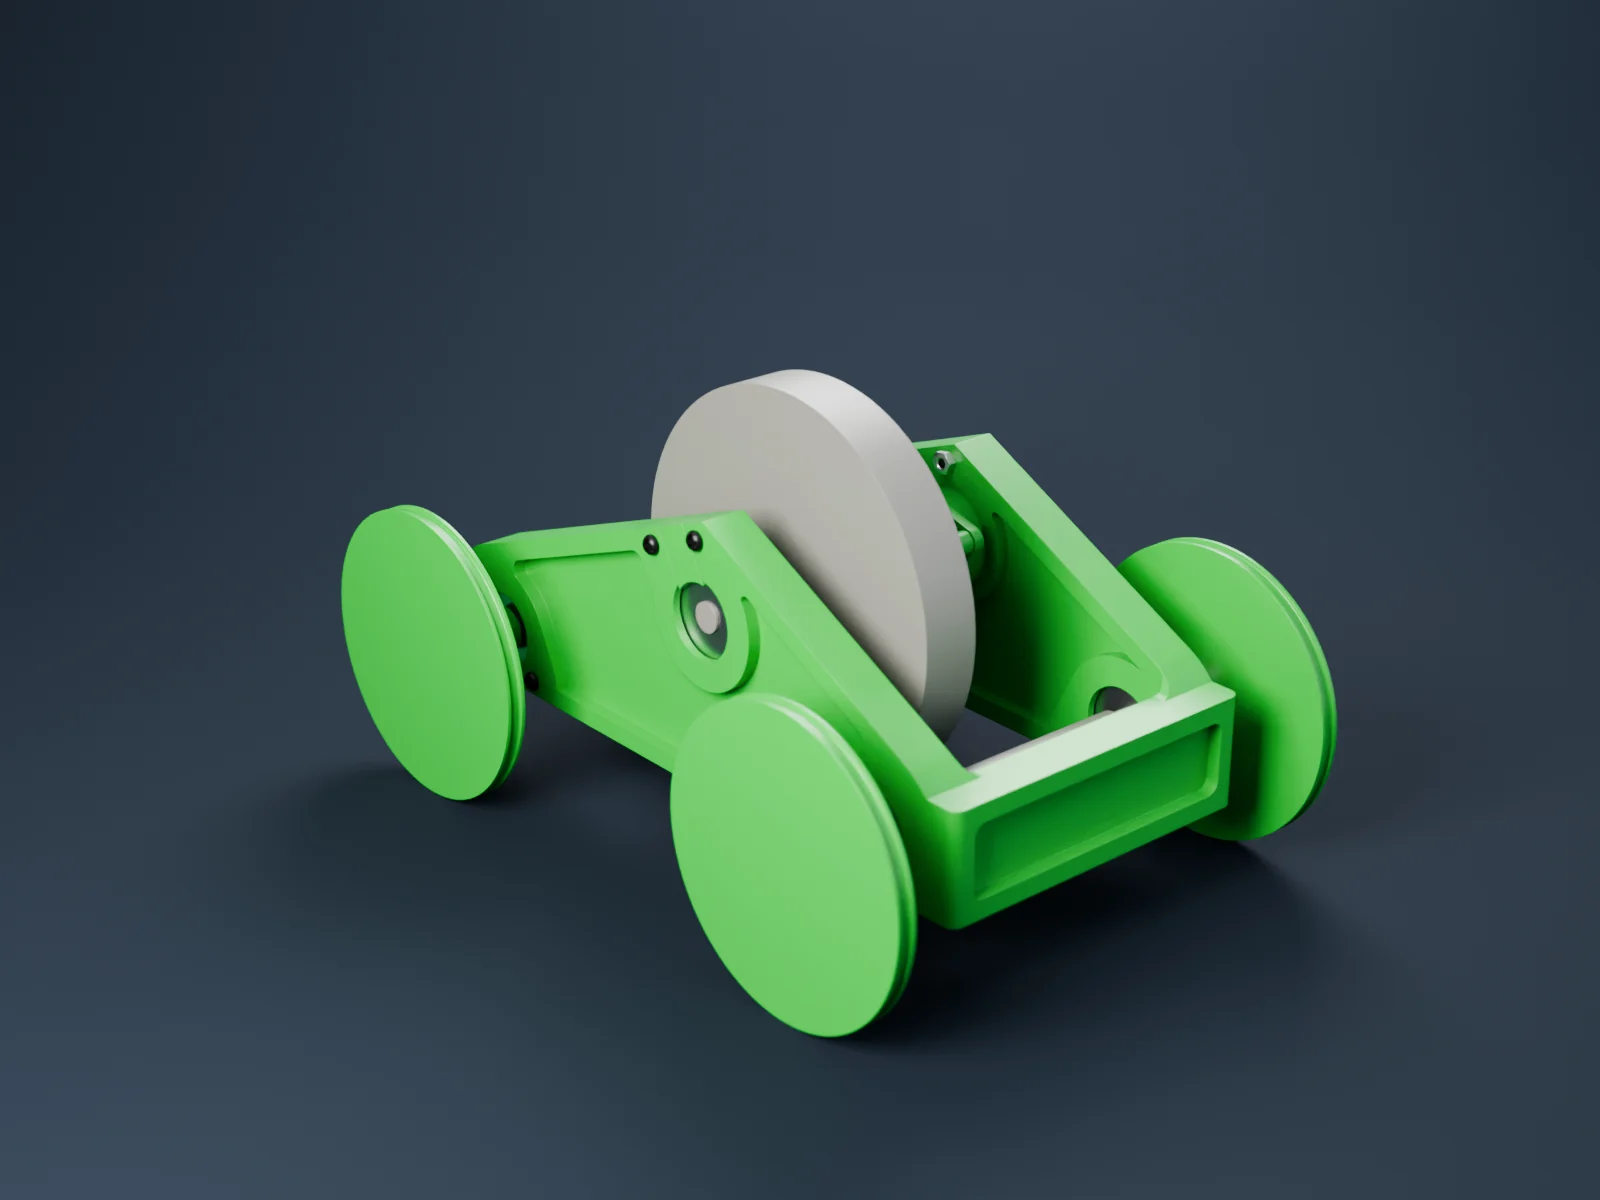
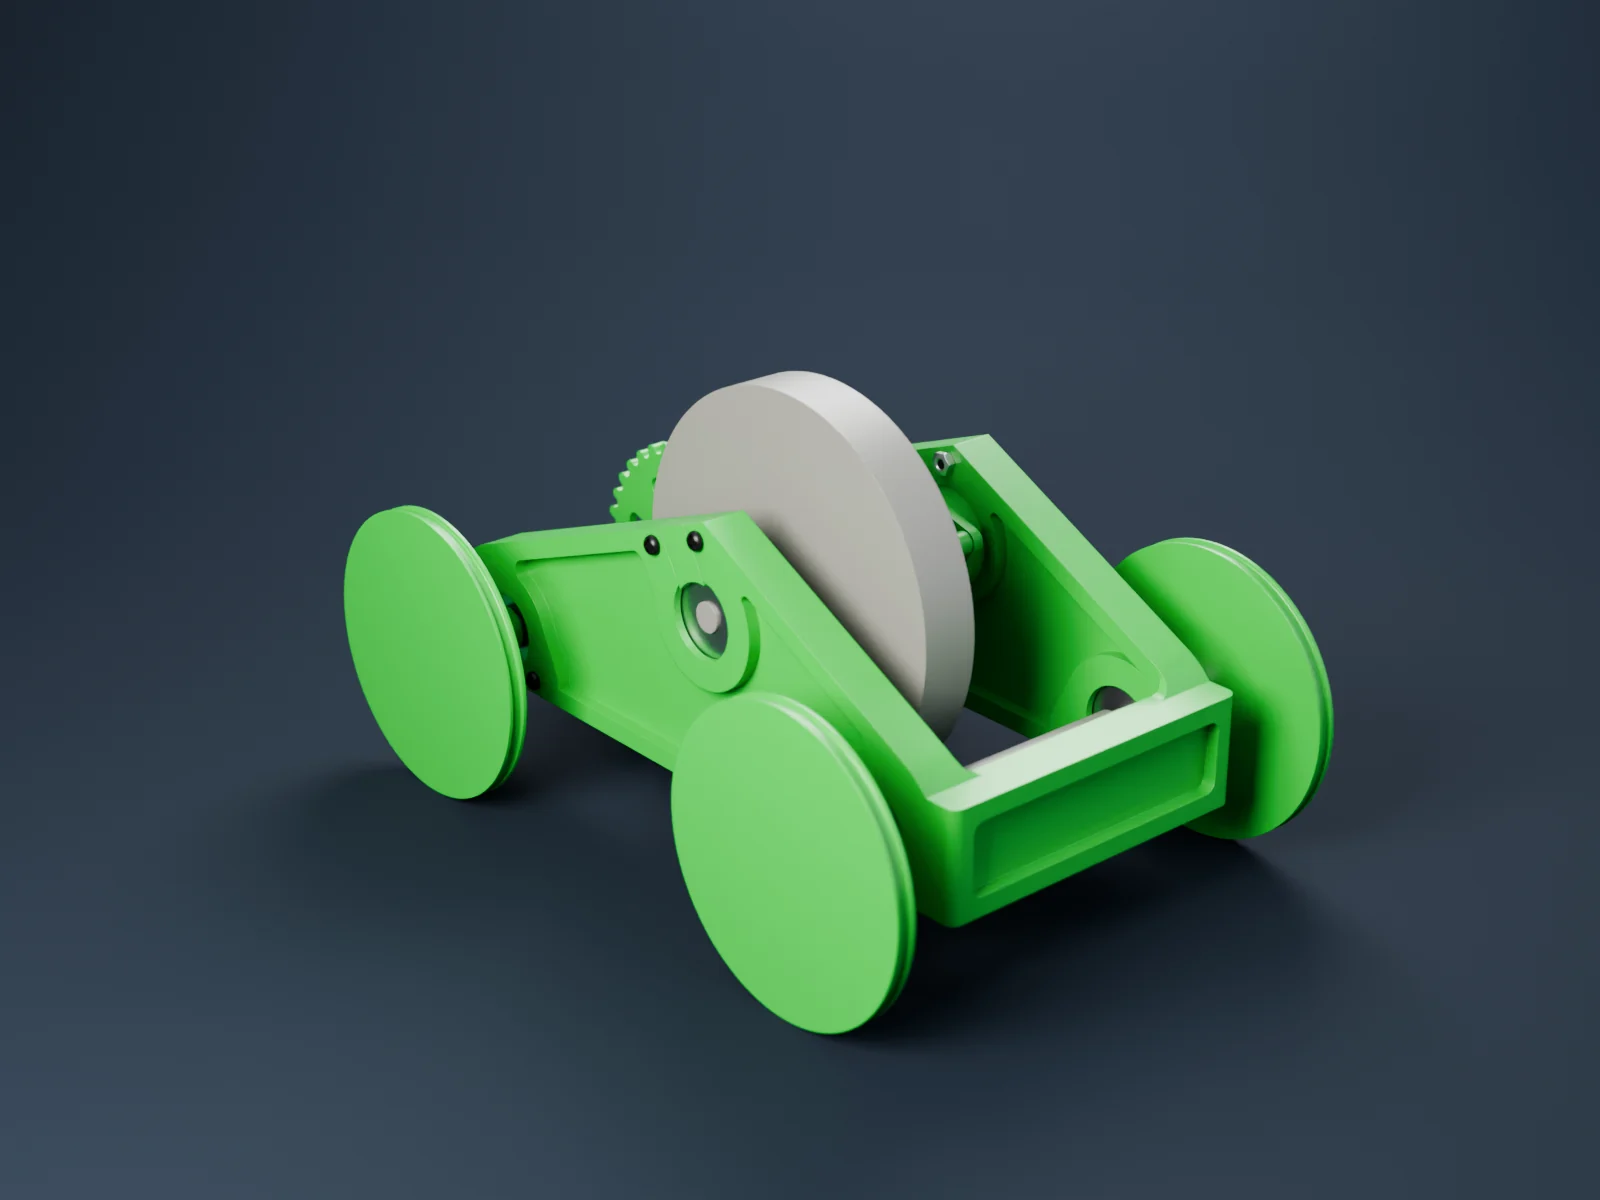
Flycar renders: add 35T front drive gear, fix gear train placement
The front-axle drive gear was missing from the CAD assembly. Modelled a
35T gear matching the Tinkercad tooth form, keyed to the axle collar's
double-D flats. Also corrected the middle compound gear (flipped, and
7 mm off its shaft) and the top gear (1.5 mm off its shaft) so all
three meshes line up on the chassis bearing centres.

Claude-Session: https://claude.ai/code/session_01SRvCKecgt8ZEEYigbHF3T6

diff --git a/Sentinel/index.html b/Sentinel/index.html
@@ -75,7 +75,7 @@
             <figure class="dossier-media">
             <a href="../images/flycar-hero.webp" target="_blank" rel="noopener"><img src="../images/flycar-hero.webp" alt="Render of the flywheel car assembly: green 3D-printed chassis on four wheels with the grey flywheel between the rails" width="1600" height="1200" loading="lazy" decoding="async"></a>
             <div style="display:grid;grid-template-columns:1fr 1fr;gap:0.6rem;margin-top:0.6rem;">
-              <a href="../images/flycar-drivetrain.webp" target="_blank" rel="noopener"><img src="../images/flycar-drivetrain.webp" alt="Drivetrain cutaway with the chassis hidden: axle pinion, compound middle gear and the top gear on the flywheel shaft" width="1600" height="1200" loading="lazy" decoding="async"></a>
+              <a href="../images/flycar-drivetrain.webp" target="_blank" rel="noopener"><img src="../images/flycar-drivetrain.webp" alt="Drivetrain cutaway with the chassis hidden: 35-tooth drive gear on the front axle, compound 15/25-tooth middle gear, and the 15-tooth gear on the flywheel shaft" width="1600" height="1200" loading="lazy" decoding="async"></a>
               <a href="../images/flycar-top.webp" target="_blank" rel="noopener"><img src="../images/flycar-top.webp" alt="Overhead render showing the gear train packaged between the chassis rails beside the flywheel" width="1600" height="1200" loading="lazy" decoding="async"></a>
               <a href="../images/flycar-rear.webp" target="_blank" rel="noopener"><img src="../images/flycar-rear.webp" alt="Rear three-quarter render of the flywheel car" width="1600" height="1200" loading="lazy" decoding="async"></a>
               <a href="../FLywheelCar1.jpeg" target="_blank" rel="noopener"><img src="../FLywheelCar1.jpeg" alt="The printed flywheel car, as built" width="1600" height="2133" style="aspect-ratio:4/3;object-fit:cover;" loading="lazy" decoding="async"></a>

diff --git a/Spectrum/index.html b/Spectrum/index.html
@@ -100,7 +100,7 @@
           <figure class="project-media">
             <a href="../images/flycar-hero.webp" target="_blank" rel="noopener"><img src="../images/flycar-hero.webp" alt="Render of the flywheel car assembly: green 3D-printed chassis on four wheels with the grey flywheel between the rails" width="1600" height="1200" loading="lazy" decoding="async"></a>
             <div style="display:grid;grid-template-columns:1fr 1fr;gap:0.6rem;margin-top:0.6rem;">
-              <a href="../images/flycar-drivetrain.webp" target="_blank" rel="noopener"><img src="../images/flycar-drivetrain.webp" alt="Drivetrain cutaway with the chassis hidden: axle pinion, compound middle gear and the top gear on the flywheel shaft" width="1600" height="1200" loading="lazy" decoding="async"></a>
+              <a href="../images/flycar-drivetrain.webp" target="_blank" rel="noopener"><img src="../images/flycar-drivetrain.webp" alt="Drivetrain cutaway with the chassis hidden: 35-tooth drive gear on the front axle, compound 15/25-tooth middle gear, and the 15-tooth gear on the flywheel shaft" width="1600" height="1200" loading="lazy" decoding="async"></a>
               <a href="../images/flycar-top.webp" target="_blank" rel="noopener"><img src="../images/flycar-top.webp" alt="Overhead render showing the gear train packaged between the chassis rails beside the flywheel" width="1600" height="1200" loading="lazy" decoding="async"></a>
               <a href="../images/flycar-rear.webp" target="_blank" rel="noopener"><img src="../images/flycar-rear.webp" alt="Rear three-quarter render of the flywheel car" width="1600" height="1200" loading="lazy" decoding="async"></a>
               <a href="../FLywheelCar1.jpeg" target="_blank" rel="noopener"><img src="../FLywheelCar1.jpeg" alt="The printed flywheel car, as built" width="1600" height="2133" style="aspect-ratio:4/3;object-fit:cover;" loading="lazy" decoding="async"></a>

diff --git a/Orbital/index.html b/Orbital/index.html
@@ -77,7 +77,7 @@
           <figure class="project-media">
             <a href="../images/flycar-hero.webp" target="_blank" rel="noopener"><img src="../images/flycar-hero.webp" alt="Render of the flywheel car assembly: green 3D-printed chassis on four wheels with the grey flywheel between the rails" width="1600" height="1200" loading="lazy" decoding="async"></a>
             <div style="display:grid;grid-template-columns:1fr 1fr;gap:0.6rem;margin-top:0.6rem;">
-              <a href="../images/flycar-drivetrain.webp" target="_blank" rel="noopener"><img src="../images/flycar-drivetrain.webp" alt="Drivetrain cutaway with the chassis hidden: axle pinion, compound middle gear and the top gear on the flywheel shaft" width="1600" height="1200" loading="lazy" decoding="async"></a>
+              <a href="../images/flycar-drivetrain.webp" target="_blank" rel="noopener"><img src="../images/flycar-drivetrain.webp" alt="Drivetrain cutaway with the chassis hidden: 35-tooth drive gear on the front axle, compound 15/25-tooth middle gear, and the 15-tooth gear on the flywheel shaft" width="1600" height="1200" loading="lazy" decoding="async"></a>
               <a href="../images/flycar-top.webp" target="_blank" rel="noopener"><img src="../images/flycar-top.webp" alt="Overhead render showing the gear train packaged between the chassis rails beside the flywheel" width="1600" height="1200" loading="lazy" decoding="async"></a>
               <a href="../images/flycar-rear.webp" target="_blank" rel="noopener"><img src="../images/flycar-rear.webp" alt="Rear three-quarter render of the flywheel car" width="1600" height="1200" loading="lazy" decoding="async"></a>
               <a href="../FLywheelCar1.jpeg" target="_blank" rel="noopener"><img src="../FLywheelCar1.jpeg" alt="The printed flywheel car, as built" width="1600" height="2133" style="aspect-ratio:4/3;object-fit:cover;" loading="lazy" decoding="async"></a>

diff --git a/notebook/index.html b/notebook/index.html
@@ -75,7 +75,7 @@
             <figure class="entry-media">
             <a href="../images/flycar-hero.webp" target="_blank" rel="noopener"><img src="../images/flycar-hero.webp" alt="Render of the flywheel car assembly: green 3D-printed chassis on four wheels with the grey flywheel between the rails" width="1600" height="1200" loading="lazy" decoding="async"></a>
             <div style="display:grid;grid-template-columns:1fr 1fr;gap:0.6rem;margin-top:0.6rem;">
-              <a href="../images/flycar-drivetrain.webp" target="_blank" rel="noopener"><img src="../images/flycar-drivetrain.webp" alt="Drivetrain cutaway with the chassis hidden: axle pinion, compound middle gear and the top gear on the flywheel shaft" width="1600" height="1200" loading="lazy" decoding="async"></a>
+              <a href="../images/flycar-drivetrain.webp" target="_blank" rel="noopener"><img src="../images/flycar-drivetrain.webp" alt="Drivetrain cutaway with the chassis hidden: 35-tooth drive gear on the front axle, compound 15/25-tooth middle gear, and the 15-tooth gear on the flywheel shaft" width="1600" height="1200" loading="lazy" decoding="async"></a>
               <a href="../images/flycar-top.webp" target="_blank" rel="noopener"><img src="../images/flycar-top.webp" alt="Overhead render showing the gear train packaged between the chassis rails beside the flywheel" width="1600" height="1200" loading="lazy" decoding="async"></a>
               <a href="../images/flycar-rear.webp" target="_blank" rel="noopener"><img src="../images/flycar-rear.webp" alt="Rear three-quarter render of the flywheel car" width="1600" height="1200" loading="lazy" decoding="async"></a>
               <a href="../FLywheelCar1.jpeg" target="_blank" rel="noopener"><img src="../FLywheelCar1.jpeg" alt="The printed flywheel car, as built" width="1600" height="2133" style="aspect-ratio:4/3;object-fit:cover;" loading="lazy" decoding="async"></a>

diff --git a/Foundry/index.html b/Foundry/index.html
@@ -67,7 +67,7 @@
           <figure class="order-media">
             <a href="../images/flycar-hero.webp" target="_blank" rel="noopener"><img src="../images/flycar-hero.webp" alt="Render of the flywheel car assembly: green 3D-printed chassis on four wheels with the grey flywheel between the rails" width="1600" height="1200" loading="lazy" decoding="async"></a>
             <div style="display:grid;grid-template-columns:1fr 1fr;gap:0.6rem;margin-top:0.6rem;">
-              <a href="../images/flycar-drivetrain.webp" target="_blank" rel="noopener"><img src="../images/flycar-drivetrain.webp" alt="Drivetrain cutaway with the chassis hidden: axle pinion, compound middle gear and the top gear on the flywheel shaft" width="1600" height="1200" loading="lazy" decoding="async"></a>
+              <a href="../images/flycar-drivetrain.webp" target="_blank" rel="noopener"><img src="../images/flycar-drivetrain.webp" alt="Drivetrain cutaway with the chassis hidden: 35-tooth drive gear on the front axle, compound 15/25-tooth middle gear, and the 15-tooth gear on the flywheel shaft" width="1600" height="1200" loading="lazy" decoding="async"></a>
               <a href="../images/flycar-top.webp" target="_blank" rel="noopener"><img src="../images/flycar-top.webp" alt="Overhead render showing the gear train packaged between the chassis rails beside the flywheel" width="1600" height="1200" loading="lazy" decoding="async"></a>
               <a href="../images/flycar-rear.webp" target="_blank" rel="noopener"><img src="../images/flycar-rear.webp" alt="Rear three-quarter render of the flywheel car" width="1600" height="1200" loading="lazy" decoding="async"></a>
               <a href="../FLywheelCar1.jpeg" target="_blank" rel="noopener"><img src="../FLywheelCar1.jpeg" alt="The printed flywheel car, as built" width="1600" height="2133" style="aspect-ratio:4/3;object-fit:cover;" loading="lazy" decoding="async"></a>

diff --git a/index.html b/index.html
@@ -52,7 +52,7 @@
           <figure class="project-media">
             <a href="images/flycar-hero.webp" target="_blank" rel="noopener"><img src="images/flycar-hero.webp" alt="Render of the flywheel car assembly: green 3D-printed chassis on four wheels with the grey flywheel between the rails" width="1600" height="1200" loading="lazy" decoding="async"></a>
             <div style="display:grid;grid-template-columns:1fr 1fr;gap:0.6rem;margin-top:0.6rem;">
-              <a href="images/flycar-drivetrain.webp" target="_blank" rel="noopener"><img src="images/flycar-drivetrain.webp" alt="Drivetrain cutaway with the chassis hidden: axle pinion, compound middle gear and the top gear on the flywheel shaft" width="1600" height="1200" loading="lazy" decoding="async"></a>
+              <a href="images/flycar-drivetrain.webp" target="_blank" rel="noopener"><img src="images/flycar-drivetrain.webp" alt="Drivetrain cutaway with the chassis hidden: 35-tooth drive gear on the front axle, compound 15/25-tooth middle gear, and the 15-tooth gear on the flywheel shaft" width="1600" height="1200" loading="lazy" decoding="async"></a>
               <a href="images/flycar-top.webp" target="_blank" rel="noopener"><img src="images/flycar-top.webp" alt="Overhead render showing the gear train packaged between the chassis rails beside the flywheel" width="1600" height="1200" loading="lazy" decoding="async"></a>
               <a href="images/flycar-rear.webp" target="_blank" rel="noopener"><img src="images/flycar-rear.webp" alt="Rear three-quarter render of the flywheel car" width="1600" height="1200" loading="lazy" decoding="async"></a>
               <a href="FLywheelCar1.jpeg" target="_blank" rel="noopener"><img src="FLywheelCar1.jpeg" alt="The printed flywheel car, as built" width="1600" height="2133" style="aspect-ratio:4/3;object-fit:cover;" loading="lazy" decoding="async"></a>
